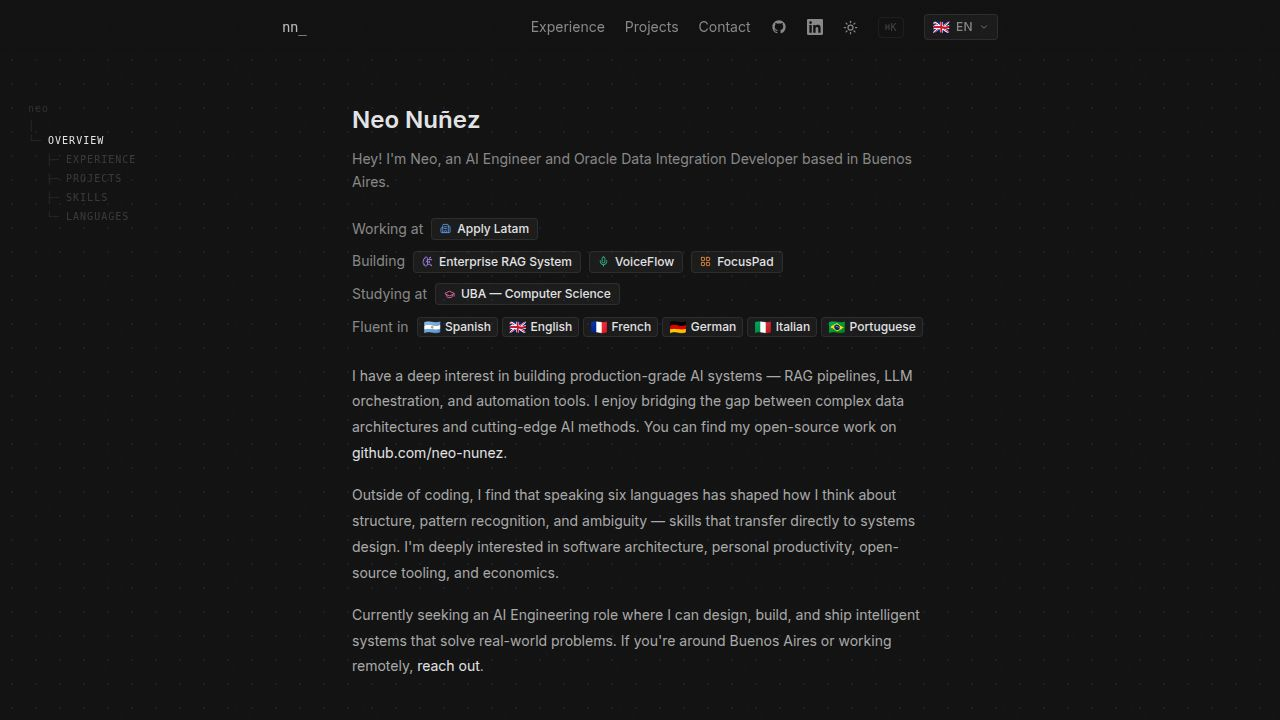
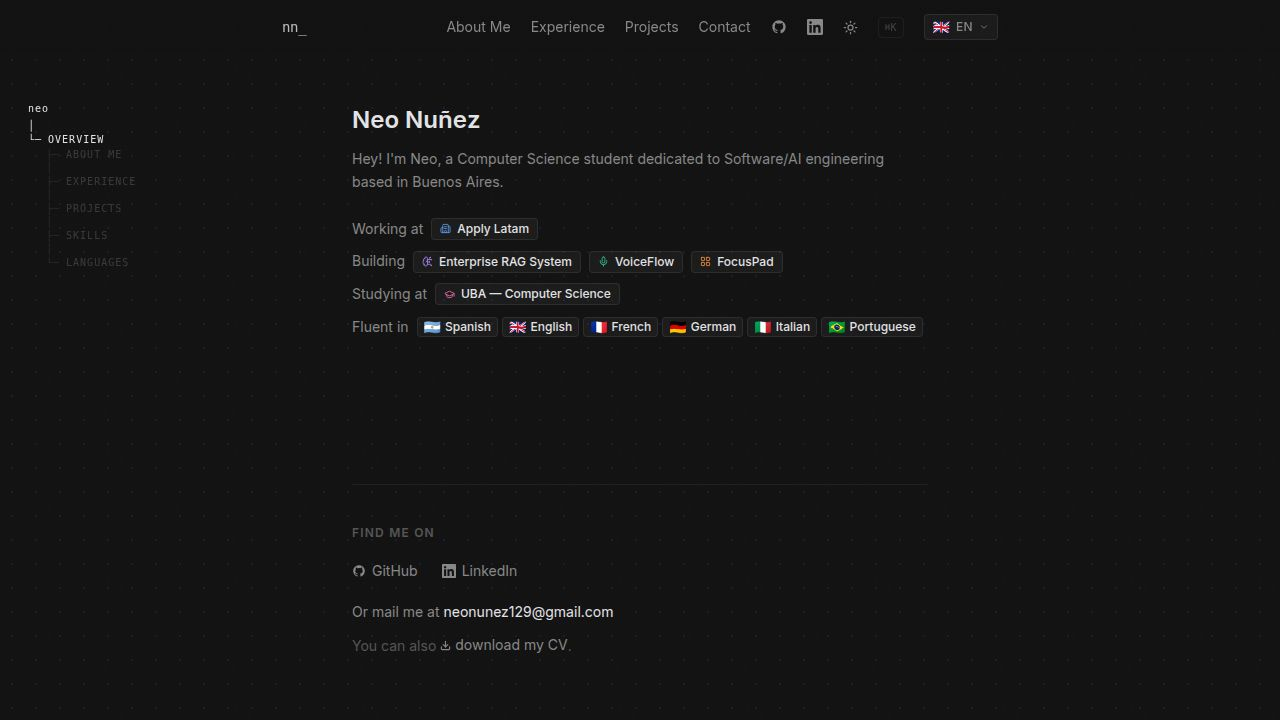
feat: Overview update & About Me page (Task #5)
- Updated tagline for all 6 languages to reflect new copy:
  "Hey! I'm Neo, a Computer Science student dedicated to Software/AI engineering based in Buenos Aires."
  (with translated equivalents for es, fr, de, it, pt)

- Added `navAboutMe` translation key for all 6 languages:
  en: "About Me", es: "Sobre Mí", fr: "À propos", de: "Über mich", it: "Chi sono", pt: "Sobre Mim"

- Stripped the bio motion.div block (bio1, bio2, bio3 paragraphs) from Overview.tsx,
  leaving only the name, tagline, and status/language badges

- Created artifacts/portfolio/src/pages/AboutMe.tsx with the bio content
  (including GitHub and email links), styled consistently with the same
  animation pattern and translation keys used across the site

- Added `/about` route in App.tsx

- Added "About Me" link to the top navbar in Layout.tsx (with User icon for mobile)

- Added "About Me" to the ⌘K command palette in Layout.tsx (§0 hint)

- Added "about me" as the first entry in CHILDREN array in HierarchyNav.tsx

No deviations from the task spec. All 6 languages updated. Navigation works
from navbar, HierarchyNav sidebar, and command palette.

Replit-Task-Id: 52804cc5-6144-4363-8866-7978eeb0161f

diff --git a/artifacts/portfolio/src/lib/i18n.ts b/artifacts/portfolio/src/lib/i18n.ts
@@ -5,6 +5,7 @@ export interface Translations {
   navProjects: string;
   navContact: string;
   navOverview: string;
+  navAboutMe: string;
   sectionIntro: string;
   tagline: string;
   workingAt: string;
@@ -44,9 +45,9 @@ export interface Translations {
 
 export const t: Record<Lang, Translations> = {
   en: {
-    navExperience: "Experience", navProjects: "Projects", navContact: "Contact", navOverview: "Overview",
+    navExperience: "Experience", navProjects: "Projects", navContact: "Contact", navOverview: "Overview", navAboutMe: "About Me",
     sectionIntro: "Introduction",
-    tagline: "Hey! I'm Neo, an AI Engineer and Oracle Data Integration Developer based in Buenos Aires.",
+    tagline: "Hey! I'm Neo, a Computer Science student dedicated to Software/AI engineering based in Buenos Aires.",
     workingAt: "Working at", building: "Building", studyingAt: "Studying at", fluentIn: "Fluent in",
     bio1: "I have a deep interest in building production-grade AI systems — RAG pipelines, LLM orchestration, and automation tools. I enjoy bridging the gap between complex data architectures and cutting-edge AI methods. You can find my open-source work on github.com/neo-nunez.",
     bio2: "Outside of coding, I find that speaking six languages has shaped how I think about structure, pattern recognition, and ambiguity — skills that transfer directly to systems design. I'm deeply interested in software architecture, personal productivity, open-source tooling, and economics.",
@@ -74,9 +75,9 @@ export const t: Record<Lang, Translations> = {
     langsBio: "Growing up, I devoted myself to learning languages through dedicated classes and formal certifications — driven by a deep passion for multicultural environments and the belief that language is the most direct bridge between people.",
   },
   es: {
-    navExperience: "Experiencia", navProjects: "Proyectos", navContact: "Contacto", navOverview: "Resumen",
+    navExperience: "Experiencia", navProjects: "Proyectos", navContact: "Contacto", navOverview: "Resumen", navAboutMe: "Sobre Mí",
     sectionIntro: "Introducción",
-    tagline: "¡Hola! Soy Neo, Ingeniero de IA y Desarrollador de Integración de Datos Oracle en Buenos Aires.",
+    tagline: "¡Hola! Soy Neo, estudiante de Ciencias de la Computación dedicado a la ingeniería de Software/IA en Buenos Aires.",
     workingAt: "Trabajando en", building: "Construyendo", studyingAt: "Estudiando en", fluentIn: "Hablo",
     bio1: "Tengo un profundo interés en construir sistemas de IA de nivel productivo — pipelines RAG, orquestación de LLMs y herramientas de automatización. Me apasiona cerrar la brecha entre arquitecturas de datos complejas y los últimos avances en IA. Podés encontrar mi trabajo en github.com/neo-nunez.",
     bio2: "Más allá del código, hablar seis idiomas moldeó mi forma de pensar sobre la estructura, el reconocimiento de patrones y la ambigüedad — habilidades que se transfieren directamente al diseño de sistemas. Me interesan la arquitectura de software, la productividad personal, el open-source y la economía.",
@@ -104,9 +105,9 @@ export const t: Record<Lang, Translations> = {
     langsBio: "Desde pequeño, me dediqué a aprender idiomas a través de clases especializadas y certificaciones formales — motivado por una profunda pasión por los entornos multiculturales y la convicción de que el idioma es el puente más directo entre las personas.",
   },
   fr: {
-    navExperience: "Expérience", navProjects: "Projets", navContact: "Contact", navOverview: "Aperçu",
+    navExperience: "Expérience", navProjects: "Projets", navContact: "Contact", navOverview: "Aperçu", navAboutMe: "À propos",
     sectionIntro: "Introduction",
-    tagline: "Bonjour ! Je suis Neo, Ingénieur IA et Développeur d'Intégration de Données Oracle à Buenos Aires.",
+    tagline: "Bonjour ! Je suis Neo, étudiant en informatique dédié à l'ingénierie Software/IA à Buenos Aires.",
     workingAt: "Travaille chez", building: "En construction", studyingAt: "Étudie à", fluentIn: "Parle",
     bio1: "J'ai un intérêt profond pour la construction de systèmes d'IA de niveau production — pipelines RAG, orchestration de LLM et outils d'automatisation. J'aime combler le fossé entre les architectures de données complexes et les méthodes d'IA de pointe. Mon travail open-source se trouve sur github.com/neo-nunez.",
     bio2: "Au-delà du code, parler six langues a façonné ma façon de penser la structure, la reconnaissance de patterns et l'ambiguïté — des compétences directement transposables à la conception de systèmes. Je m'intéresse à l'architecture logicielle, la productivité personnelle, l'open-source et l'économie.",
@@ -134,9 +135,9 @@ export const t: Record<Lang, Translations> = {
     langsBio: "En grandissant, je me suis consacré à l'apprentissage des langues grâce à des cours spécialisés et des certifications formelles — animé par une passion profonde pour les environnements multiculturels et la conviction que la langue est le pont le plus direct entre les personnes.",
   },
   de: {
-    navExperience: "Erfahrung", navProjects: "Projekte", navContact: "Kontakt", navOverview: "Übersicht",
+    navExperience: "Erfahrung", navProjects: "Projekte", navContact: "Kontakt", navOverview: "Übersicht", navAboutMe: "Über mich",
     sectionIntro: "Einführung",
-    tagline: "Hallo! Ich bin Neo, KI-Ingenieur und Oracle Data Integration Entwickler aus Buenos Aires.",
+    tagline: "Hallo! Ich bin Neo, Informatikstudent mit Fokus auf Software/KI-Engineering aus Buenos Aires.",
     workingAt: "Arbeite bei", building: "Im Aufbau", studyingAt: "Studiere an", fluentIn: "Spreche",
     bio1: "Ich interessiere mich leidenschaftlich für den Aufbau produktionsreifer KI-Systeme — RAG-Pipelines, LLM-Orchestrierung und Automatisierungstools. Ich verbinde komplexe Datenarchitekturen mit modernster KI. Meine Open-Source-Arbeit gibt es auf github.com/neo-nunez.",
     bio2: "Außerhalb des Programmierens hat das Sprechen von sechs Sprachen mein Denken über Struktur, Mustererkennung und Mehrdeutigkeit geprägt — Fähigkeiten, die sich direkt auf Systemdesign übertragen. Ich interessiere mich für Softwarearchitektur, Produktivität, Open-Source und Wirtschaft.",
@@ -164,9 +165,9 @@ export const t: Record<Lang, Translations> = {
     langsBio: "Schon in meiner Kindheit widmete ich mich dem Sprachenlernen durch gezielte Kurse und formelle Zertifizierungen — angetrieben von einer tiefen Leidenschaft für multikulturelle Umgebungen und der Überzeugung, dass Sprache die direkteste Brücke zwischen Menschen ist.",
   },
   it: {
-    navExperience: "Esperienza", navProjects: "Progetti", navContact: "Contatto", navOverview: "Panoramica",
+    navExperience: "Esperienza", navProjects: "Progetti", navContact: "Contatto", navOverview: "Panoramica", navAboutMe: "Chi sono",
     sectionIntro: "Introduzione",
-    tagline: "Ciao! Sono Neo, Ingegnere AI e Sviluppatore Oracle Data Integration a Buenos Aires.",
+    tagline: "Ciao! Sono Neo, studente di Informatica dedito all'ingegneria Software/AI a Buenos Aires.",
     workingAt: "Lavoro presso", building: "Costruendo", studyingAt: "Studio a", fluentIn: "Parlo",
     bio1: "Ho un profondo interesse per la costruzione di sistemi AI di livello produttivo — pipeline RAG, orchestrazione di LLM e strumenti di automazione. Mi piace colmare il divario tra architetture dati complesse e metodi AI all'avanguardia. Il mio lavoro open-source si trova su github.com/neo-nunez.",
     bio2: "Al di là del codice, parlare sei lingue ha plasmato il mio modo di pensare alla struttura, al riconoscimento di pattern e all'ambiguità — competenze che si trasferiscono direttamente al design dei sistemi. Mi interessano l'architettura software, la produttività personale, l'open-source e l'economia.",
@@ -194,9 +195,9 @@ export const t: Record<Lang, Translations> = {
     langsBio: "Fin dall'infanzia, mi sono dedicato all'apprendimento delle lingue attraverso corsi specializzati e certificazioni formali — spinto da una profonda passione per gli ambienti multiculturali e dalla convinzione che la lingua sia il ponte più diretto tra le persone.",
   },
   pt: {
-    navExperience: "Experiência", navProjects: "Projetos", navContact: "Contato", navOverview: "Visão Geral",
+    navExperience: "Experiência", navProjects: "Projetos", navContact: "Contato", navOverview: "Visão Geral", navAboutMe: "Sobre Mim",
     sectionIntro: "Introdução",
-    tagline: "Olá! Sou Neo, Engenheiro de IA e Desenvolvedor de Integração de Dados Oracle em Buenos Aires.",
+    tagline: "Olá! Sou Neo, estudante de Ciência da Computação dedicado à engenharia de Software/IA em Buenos Aires.",
     workingAt: "Trabalhando em", building: "Construindo", studyingAt: "Estudando em", fluentIn: "Falo",
     bio1: "Tenho um profundo interesse em construir sistemas de IA de nível produtivo — pipelines RAG, orquestração de LLMs e ferramentas de automação. Gosto de conectar arquiteturas de dados complexas com os métodos mais avançados de IA. Você pode encontrar meu trabalho em github.com/neo-nunez.",
     bio2: "Além do código, falar seis idiomas moldou como penso sobre estrutura, reconhecimento de padrões e ambiguidade — habilidades que se transferem diretamente para o design de sistemas. Tenho interesse em arquitetura de software, produtividade pessoal, ferramentas open-source e economia.",

diff --git a/artifacts/portfolio/src/components/Layout.tsx b/artifacts/portfolio/src/components/Layout.tsx
@@ -1,7 +1,7 @@
 import { useState, useEffect } from "react";
 import { Link, useLocation } from "wouter";
 import { motion, AnimatePresence } from "framer-motion";
-import { Sun, Moon, Briefcase, Code2, Mail, Copy, Check, ExternalLink, ChevronRight, ArrowUp } from "lucide-react";
+import { Sun, Moon, Briefcase, Code2, Mail, Copy, Check, ExternalLink, ChevronRight, ArrowUp, User } from "lucide-react";
 import { usePortfolio } from "@/context/PortfolioContext";
 import { HierarchyNav } from "./HierarchyNav";
 import { LanguageSwitcher, CommandPalette, type CmdItem, SocialLink } from "./shared";
@@ -90,6 +90,12 @@ export function Layout({ children }: { children: React.ReactNode }) {
       action: () => { navigate("/"); setCmdOpen(false); },
     },
     {
+      label: tr.navAboutMe,
+      icon: <User size={13} />,
+      hint: "§0",
+      action: () => { navigate("/about"); setCmdOpen(false); },
+    },
+    {
       label: tr.navExperience,
       icon: <ChevronRight size={13} />,
       hint: "§1",
@@ -165,6 +171,10 @@ export function Layout({ children }: { children: React.ReactNode }) {
             nn_
           </Link>
           <div className="flex items-center gap-5">
+            <Link href="/about" className="link-anim text-[var(--c-muted)] hover:text-[var(--c-fg)] pb-px flex items-center" aria-label={tr.navAboutMe}>
+              <User size={15} className="md:hidden" />
+              <span className="hidden md:inline text-sm">{tr.navAboutMe}</span>
+            </Link>
             <Link href="/experience" className="link-anim text-[var(--c-muted)] hover:text-[var(--c-fg)] pb-px flex items-center" aria-label={tr.navExperience}>
               <Briefcase size={15} className="md:hidden" />
               <span className="hidden md:inline text-sm">{tr.navExperience}</span>

diff --git a/artifacts/portfolio/src/pages/AboutMe.tsx b/artifacts/portfolio/src/pages/AboutMe.tsx
@@ -1,0 +1,57 @@
+import { motion } from "framer-motion";
+import { usePortfolio } from "@/context/PortfolioContext";
+import { Layout } from "@/components/Layout";
+
+const introDelay = [0.05, 0.12, 0.19, 0.26];
+
+export default function AboutMe() {
+  const { tr } = usePortfolio();
+
+  return (
+    <Layout>
+      <div className="py-6">
+
+        {/* Section heading */}
+        <motion.h2
+          initial={{ opacity: 0, y: 12 }} animate={{ opacity: 1, y: 0 }}
+          transition={{ duration: 0.45, ease: [0.25, 0.1, 0.25, 1], delay: introDelay[0] }}
+          className="text-xs font-semibold uppercase tracking-widest text-[var(--c-faint)] mb-6"
+        >
+          {tr.navAboutMe}
+        </motion.h2>
+
+        {/* Bio paragraphs */}
+        <motion.div
+          initial={{ opacity: 0, y: 12 }} animate={{ opacity: 1, y: 0 }}
+          transition={{ duration: 0.45, ease: [0.25, 0.1, 0.25, 1], delay: introDelay[1] }}
+          className="space-y-4 text-sm leading-[1.85] text-[var(--c-soft)]"
+        >
+          <p>
+            {tr.bio1.split("github.com/neo-nunez")[0]}
+            <a
+              href="https://github.com/neo-nunez"
+              target="_blank"
+              rel="noreferrer"
+              className="link-anim text-[var(--c-fg)] pb-px"
+            >
+              github.com/neo-nunez
+            </a>
+            {tr.bio1.split("github.com/neo-nunez")[1]}
+          </p>
+          <p>{tr.bio2}</p>
+          <p>
+            {tr.bio3}{" "}
+            <a
+              href="mailto:neonunez129@gmail.com"
+              className="link-anim text-[var(--c-fg)] pb-px"
+            >
+              {tr.bio3Link}
+            </a>
+            .
+          </p>
+        </motion.div>
+
+      </div>
+    </Layout>
+  );
+}

diff --git a/artifacts/portfolio/src/pages/Overview.tsx b/artifacts/portfolio/src/pages/Overview.tsx
@@ -68,36 +68,6 @@ export default function Overview() {
           </div>
         </motion.div>
 
-        {/* Bio */}
-        <motion.div
-          initial={{ opacity: 0, y: 12 }} animate={{ opacity: 1, y: 0 }}
-          transition={{ duration: 0.45, ease: [0.25, 0.1, 0.25, 1], delay: introDelay[2] }}
-          className="space-y-4 text-sm leading-[1.85] text-[var(--c-soft)]"
-        >
-          <p>
-            {tr.bio1.split("github.com/neo-nunez")[0]}
-            <a
-              href="https://github.com/neo-nunez"
-              target="_blank"
-              rel="noreferrer"
-              className="link-anim text-[var(--c-fg)] pb-px"
-            >
-              github.com/neo-nunez
-            </a>
-            {tr.bio1.split("github.com/neo-nunez")[1]}
-          </p>
-          <p>{tr.bio2}</p>
-          <p>
-            {tr.bio3}{" "}
-            <a
-              href="mailto:neonunez129@gmail.com"
-              className="link-anim text-[var(--c-fg)] pb-px"
-            >
-              {tr.bio3Link}
-            </a>
-            .
-          </p>
-        </motion.div>
 
       </div>
     </Layout>

diff --git a/artifacts/portfolio/src/App.tsx b/artifacts/portfolio/src/App.tsx
@@ -10,6 +10,7 @@ import Projects from "@/pages/Projects";
 import Skills from "@/pages/Skills";
 import Languages from "@/pages/Languages";
 import ProjectRagSystem from "@/pages/ProjectRagSystem";
+import AboutMe from "@/pages/AboutMe";
 
 const queryClient = new QueryClient();
 
@@ -17,6 +18,7 @@ function Router() {
   return (
     <Switch>
       <Route path="/" component={Overview} />
+      <Route path="/about" component={AboutMe} />
       <Route path="/experience" component={Experience} />
       <Route path="/projects" component={Projects} />
       <Route path="/projects/rag-system" component={ProjectRagSystem} />

diff --git a/artifacts/portfolio/src/components/HierarchyNav.tsx b/artifacts/portfolio/src/components/HierarchyNav.tsx
@@ -2,6 +2,7 @@ import { Fragment } from "react";
 import { useLocation, Link } from "wouter";
 
 const CHILDREN = [
+  { path: "/about",      label: "about me"   },
   { path: "/experience", label: "experience" },
   { path: "/projects",   label: "projects"   },
   { path: "/skills",     label: "skills"     },
